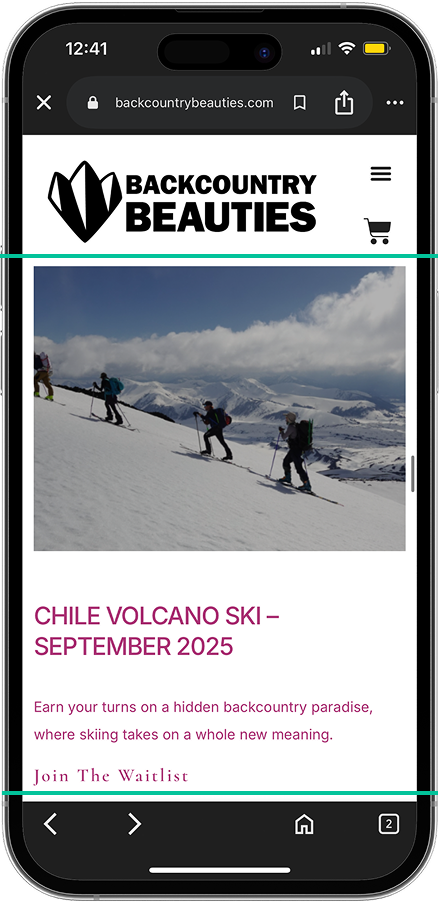
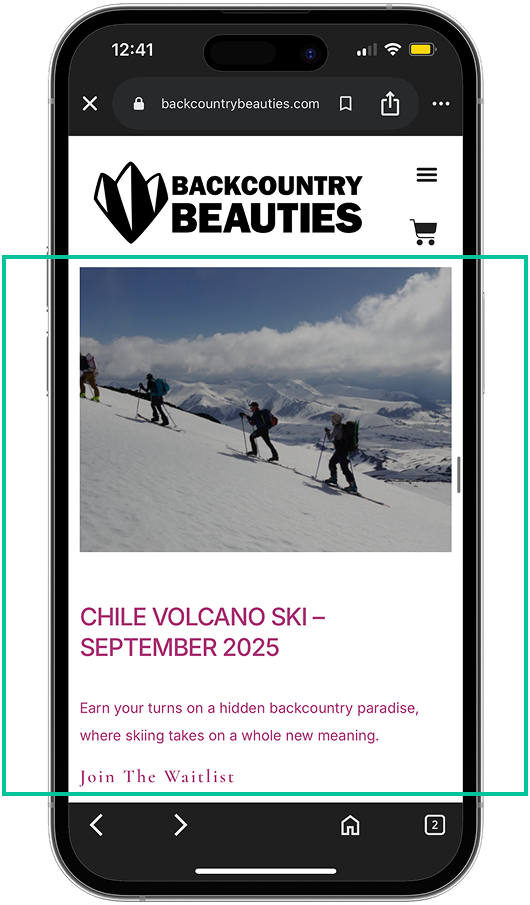
Restore complete green annotations and simplify terminology caption
Refs #17. Keep full original annotation rectangles while retaining transparent white exteriors; remove the requested public disclaimer sentence.

diff --git a/public/project/womens-wilderness/index.html b/public/project/womens-wilderness/index.html
@@ -15,7 +15,7 @@
 </div><video aria-label="Screen recording of the Women’s Wilderness homepage and its Transformative Outdoor Experiences hero video. No audio." autoplay="" height="860" id="ww-desk-video" loop="" muted="" playsinline="" poster="/assets/ww-desk-research-poster.jpg?v=97091bfdd975" preload="metadata" width="1494"><source src="/assets/ww-desk-research.webm?v=ce9756009521" type="video/webm"/><source src="/assets/ww-desk-research.mp4?v=224e63d82ca4" type="video/mp4"/>Your browser does not support embedded video. <a href="/assets/ww-desk-research.mp4?v=224e63d82ca4">Download the recording.</a></video></div></figure><h3 id="competitive-analysis">Competitive Analysis &amp; Critical User Journey</h3>
 <p>We compared Women’s Wilderness to Backcountry Beauties. Each of us put ourselves in a user's shoes to complete a task that we thought most of the users would need to go through.</p>
 <p><strong>I was responsible for searching for a specific program and event, and this is what I uncovered:</strong></p>
-<ol class="ww-comparison"><li><p>Women’s Wilderness had multiple adult program categories targeting adults. First-time users may need some time to fully understand the differences between each category. Backcountry Beauties listed all of their activities, making it easier for users to see what they have offered at once.</p><div class="ww-phone-recordings" data-walkthroughs="program-lists"><figure class="ww-phone-recording" data-recording="ww-program-list"><figcaption>Women’s Wilderness</figcaption><div class="ww-phone-frame"><video aria-label="Women’s Wilderness adult program navigation screen recording. No audio." autoplay="" height="1298" id="ww-program-list-video" loop="" muted="" playsinline="" poster="/assets/ww-program-list-poster.jpg?v=b65af1487cbb" preload="metadata" width="600"><source src="/assets/ww-program-list.webm?v=cb222b0959b2" type="video/webm"/><source src="/assets/ww-program-list.mp4?v=395fd7d4723b" type="video/mp4"/>Your browser does not support embedded video. <a href="/assets/ww-program-list.mp4?v=395fd7d4723b">Download the recording.</a></video></div></figure><figure class="ww-phone-recording" data-recording="bb-trips-list"><figcaption>Backcountry Beauties</figcaption><div class="ww-phone-frame"><video aria-label="Backcountry Beauties trips list screen recording. No audio." autoplay="" height="1298" id="bb-trips-list-video" loop="" muted="" playsinline="" poster="/assets/bb-trips-list-poster.jpg?v=39c1e78949ba" preload="metadata" width="600"><source src="/assets/bb-trips-list.webm?v=b3f99e89bf61" type="video/webm"/><source src="/assets/bb-trips-list.mp4?v=685a1ceb1884" type="video/mp4"/>Your browser does not support embedded video. <a href="/assets/bb-trips-list.mp4?v=685a1ceb1884">Download the recording.</a></video></div></figure></div></li><li><p>Both organizations display events that have already closed registration or have ended. However, Backcountry Beauties allows users to join a waitlist for these events.</p><div class="ww-phone-recordings ww-phone-single" data-walkthroughs="waitlist"><figure class="ww-phone-recording" data-recording="bb-waitlist"><figcaption>Backcountry Beauties</figcaption><div class="ww-phone-frame"><video aria-label="Backcountry Beauties trip waitlist flow screen recording. No audio." autoplay="" height="1298" id="bb-waitlist-video" loop="" muted="" playsinline="" poster="/assets/bb-waitlist-poster.jpg?v=116b1ddd7761" preload="metadata" width="600"><source src="/assets/bb-waitlist.webm?v=a7baa7f9bda2" type="video/webm"/><source src="/assets/bb-waitlist.mp4?v=3ff3dc1108f5" type="video/mp4"/>Your browser does not support embedded video. <a href="/assets/bb-waitlist.mp4?v=3ff3dc1108f5">Download the recording.</a></video></div></figure></div></li><li><p>Women’s Wilderness included the program details, such as price, date, and location, in the previews, which is something Backcountry Beauties does not provide.</p></li></ol><figure class="ww-evidence ww-program-previews"><div class="ww-evidence-grid ww-evidence-phones"><div class="ww-evidence-item"><span class="ww-evidence-label">Women’s Wilderness</span><a aria-label="Open full-size screenshot: Women’s Wilderness event preview showing date, location and price (opens in a new tab)" href="/assets/ww-program-preview-transparent.png?v=d2c579b9f26c" rel="noopener noreferrer" target="_blank"><img alt="Women’s Wilderness event preview showing date, location and price" height="903" loading="lazy" src="/assets/ww-program-preview-transparent.png?v=d2c579b9f26c" width="440"/></a></div><div class="ww-evidence-item"><span class="ww-evidence-label">Backcountry Beauties</span><a aria-label="Open full-size screenshot: Backcountry Beauties trip preview with a Join the Waitlist link (opens in a new tab)" href="/assets/ww-competitor-preview-transparent.png?v=920697b65e01" rel="noopener noreferrer" target="_blank"><img alt="Backcountry Beauties trip preview with a Join the Waitlist link" height="903" loading="lazy" src="/assets/ww-competitor-preview-transparent.png?v=920697b65e01" width="440"/></a></div></div></figure>
+<ol class="ww-comparison"><li><p>Women’s Wilderness had multiple adult program categories targeting adults. First-time users may need some time to fully understand the differences between each category. Backcountry Beauties listed all of their activities, making it easier for users to see what they have offered at once.</p><div class="ww-phone-recordings" data-walkthroughs="program-lists"><figure class="ww-phone-recording" data-recording="ww-program-list"><figcaption>Women’s Wilderness</figcaption><div class="ww-phone-frame"><video aria-label="Women’s Wilderness adult program navigation screen recording. No audio." autoplay="" height="1298" id="ww-program-list-video" loop="" muted="" playsinline="" poster="/assets/ww-program-list-poster.jpg?v=b65af1487cbb" preload="metadata" width="600"><source src="/assets/ww-program-list.webm?v=cb222b0959b2" type="video/webm"/><source src="/assets/ww-program-list.mp4?v=395fd7d4723b" type="video/mp4"/>Your browser does not support embedded video. <a href="/assets/ww-program-list.mp4?v=395fd7d4723b">Download the recording.</a></video></div></figure><figure class="ww-phone-recording" data-recording="bb-trips-list"><figcaption>Backcountry Beauties</figcaption><div class="ww-phone-frame"><video aria-label="Backcountry Beauties trips list screen recording. No audio." autoplay="" height="1298" id="bb-trips-list-video" loop="" muted="" playsinline="" poster="/assets/bb-trips-list-poster.jpg?v=39c1e78949ba" preload="metadata" width="600"><source src="/assets/bb-trips-list.webm?v=b3f99e89bf61" type="video/webm"/><source src="/assets/bb-trips-list.mp4?v=685a1ceb1884" type="video/mp4"/>Your browser does not support embedded video. <a href="/assets/bb-trips-list.mp4?v=685a1ceb1884">Download the recording.</a></video></div></figure></div></li><li><p>Both organizations display events that have already closed registration or have ended. However, Backcountry Beauties allows users to join a waitlist for these events.</p><div class="ww-phone-recordings ww-phone-single" data-walkthroughs="waitlist"><figure class="ww-phone-recording" data-recording="bb-waitlist"><figcaption>Backcountry Beauties</figcaption><div class="ww-phone-frame"><video aria-label="Backcountry Beauties trip waitlist flow screen recording. No audio." autoplay="" height="1298" id="bb-waitlist-video" loop="" muted="" playsinline="" poster="/assets/bb-waitlist-poster.jpg?v=116b1ddd7761" preload="metadata" width="600"><source src="/assets/bb-waitlist.webm?v=a7baa7f9bda2" type="video/webm"/><source src="/assets/bb-waitlist.mp4?v=3ff3dc1108f5" type="video/mp4"/>Your browser does not support embedded video. <a href="/assets/bb-waitlist.mp4?v=3ff3dc1108f5">Download the recording.</a></video></div></figure></div></li><li><p>Women’s Wilderness included the program details, such as price, date, and location, in the previews, which is something Backcountry Beauties does not provide.</p></li></ol><figure class="ww-evidence ww-program-previews"><div class="ww-evidence-grid ww-evidence-phones"><div class="ww-evidence-item"><span class="ww-evidence-label">Women’s Wilderness</span><a aria-label="Open full-size screenshot: Women’s Wilderness event preview showing date, location and price (opens in a new tab)" href="/assets/ww-program-preview-transparent.png?v=93a73c1fb369" rel="noopener noreferrer" target="_blank"><img alt="Women’s Wilderness event preview showing date, location and price" height="905" loading="lazy" src="/assets/ww-program-preview-transparent.png?v=93a73c1fb369" width="530"/></a></div><div class="ww-evidence-item"><span class="ww-evidence-label">Backcountry Beauties</span><a aria-label="Open full-size screenshot: Backcountry Beauties trip preview with a Join the Waitlist link (opens in a new tab)" href="/assets/ww-competitor-preview-transparent.png?v=fd1e69fe40e7" rel="noopener noreferrer" target="_blank"><img alt="Backcountry Beauties trip preview with a Join the Waitlist link" height="905" loading="lazy" src="/assets/ww-competitor-preview-transparent.png?v=fd1e69fe40e7" width="530"/></a></div></div></figure>
 <h3 id="user-interviews">User Interview and Analysis</h3>
 <p>To deeply understand how users can easily discover outdoor programs that they are interested in on the website, we conducted usability interviews with 6 potential participants, asking them to complete website tasks and answer interview questions around these 3 topics:</p>
 <p class="ww-topic-note"><em>(Select a topic below to scroll to the corresponding findings and recommendations.)</em></p><ol class="ww-topic-links"><li><a href="#finding-site-navigation">Site navigation and other information exploration</a></li><li><a href="#finding-program-discovery">Activities and programs discovery</a></li><li><a href="#finding-activity-registration">Activity Registration</a></li></ol>
@@ -24,7 +24,7 @@
 <h4 id="finding-site-navigation" tabindex="-1">1. Site navigation and other information exploration</h4>
 <p>A few participants were unsure whether “Adult Programs” and “Adult Courses” referred to the same offerings. The navigation used “Adult Programs” and “FAQ – Adult Courses,” while the homepage grouped offerings under “Courses.”</p>
 <p>We recommended using consistent terminology for the same offerings across navigation, headings, and FAQs.</p>
-<figure class="ww-evidence ww-naming-comparison"><div class="ww-naming-player"><video aria-describedby="ww-naming-caption" aria-label="Original wording on the left and proposed Courses terminology on the right, playing in sync" autoplay="" class="ww-naming-video" height="956" loop="" muted="" playsinline="" poster="/assets/ww-naming-comparison-poster.jpg?v=de1546a94a25" preload="metadata" width="1000"><source src="/assets/ww-naming-comparison.webm?v=55310794766a" type="video/webm"/><source src="/assets/ww-naming-comparison.mp4?v=7b576f8984d8" type="video/mp4"/>Your browser does not support embedded video. Use the full-size comparison link below.</video></div><figcaption id="ww-naming-caption">Illustrative terminology proposal: use “Courses” consistently across the homepage and navigation. Not implemented or usability-tested. <a href="/assets/ww-naming-comparison.mp4?v=7b576f8984d8" rel="noopener noreferrer" target="_blank">View full-size comparison</a></figcaption></figure><h4 id="finding-program-discovery" tabindex="-1">2. Activities and programs discovery</h4>
+<figure class="ww-evidence ww-naming-comparison"><div class="ww-naming-player"><video aria-describedby="ww-naming-caption" aria-label="Original wording on the left and proposed Courses terminology on the right, playing in sync" autoplay="" class="ww-naming-video" height="956" loop="" muted="" playsinline="" poster="/assets/ww-naming-comparison-poster.jpg?v=de1546a94a25" preload="metadata" width="1000"><source src="/assets/ww-naming-comparison.webm?v=55310794766a" type="video/webm"/><source src="/assets/ww-naming-comparison.mp4?v=7b576f8984d8" type="video/mp4"/>Your browser does not support embedded video. Use the full-size comparison link below.</video></div><figcaption id="ww-naming-caption">Proposed terminology: use “Courses” consistently across the homepage and navigation. <a href="/assets/ww-naming-comparison.mp4?v=7b576f8984d8" rel="noopener noreferrer" target="_blank">View full-size comparison</a></figcaption></figure><h4 id="finding-program-discovery" tabindex="-1">2. Activities and programs discovery</h4>
 <p>Some participants wanted to combine activity, age, and program-type filters to narrow the available options. We recommended supporting these combined criteria to shorten the program discovery time.</p>
 <figure class="ww-evidence"><div class="ww-evidence-item"><a aria-label="Open full-size screenshot: Recommendation concept showing Backpacking and Family filters selected together (opens in a new tab)" href="/assets/ww-filter-proposal.png?v=bc2baceeb012" rel="noopener noreferrer" target="_blank"><img alt="Recommendation concept showing Backpacking and Family filters selected together" height="994" loading="lazy" src="/assets/ww-filter-proposal.png?v=bc2baceeb012" width="605"/></a></div><figcaption>Proposed combined filtering, with “Backpacking” and “Family” selected together. This illustrates a recommendation, not a tested outcome.</figcaption></figure><h4 id="finding-activity-registration" tabindex="-1">3. Activity Registration</h4>
 <p>Some participants encountered events that were no longer accepting registrations.</p>

diff --git a/tools/prepare_transparent_previews.py b/tools/prepare_transparent_previews.py
@@ -1,61 +1,182 @@
-"""Optional reproducibility helper. Requires Pillow 13.0.0; run from any directory."""
-from PIL import Image
+"""Rebuild exterior-transparent annotated previews. Requires Pillow.
+
+Run from any directory; optional --preview-dir writes pale/dark visual checks.
+Original reference images are read-only. The complete green rectangles are kept.
+"""
+import argparse
+import hashlib
+import json
+import platform
 from pathlib import Path
-import hashlib,json
-root=Path(__file__).resolve().parents[1]; assets=root/'public/assets'
-names=['program','competitor']; originals={n:Image.open(assets/f'ww-{n}-preview.png').convert('RGB') for n in names}
-annotation_rows={'program':[(147,151),(684,688)],'competitor':[(255,259),(792,796)]}
-crop=(46,1,486,904)
-def sha(path):return hashlib.sha256(path.read_bytes()).hexdigest()
-def is_annotation(name,y):return any(a<=y<b for a,b in annotation_rows[name])
-def build(name):
- src=originals[name]; alt=originals[names[1-names.index(name)]]; out=src.convert('RGBA'); spans={}; changed_boundary=0
- # Construct silhouette without relying on the screen content, white highlights,
- # or turquoise annotation that crosses the source hardware.
- for y in range(src.height):
-  clean=alt if is_annotation(name,y) else src
-  core=[x for x in range(46,486) if min(clean.getpixel((x,y)))<220]
-  if core:spans[y]=(core[0],core[-1],clean)
- for y in range(src.height):
-  if y not in spans:
-   # The one faint antialiased row below the phone has no dark core.
-   # Keep only its neutral, nonwhite exterior using the last hardware row.
-   nearby=min(spans,key=lambda yy:abs(yy-y)); left,right,clean=spans[nearby]
-   for x in range(src.width):
-    rgb=src.getpixel((x,y)); shade=min(rgb)
-    if left<=x<=right and shade<255 and max(rgb)-min(rgb)<3:
-     fg=originals[name].getpixel((x,nearby)); f=round(sum(fg)/3)
-     alpha=round(255*(255-shade)/max(1,255-f))
-     out.putpixel((x,y),(*fg,max(0,min(255,alpha))))
-    else:out.putpixel((x,y),(0,0,0,0))
-   continue
-  left,right,clean=spans[y]
-  for x in range(src.width):
-   if left<=x<=right:continue
-   if x<46 or x>=486:
-    out.putpixel((x,y),(0,0,0,0));continue
-   edge=left if x<left else right; fg=clean.getpixel((edge,y)); rgb=clean.getpixel((x,y))
-   # All exterior pixels are neutral gray. Recover coverage by assuming the
-   # nearest opaque hardware-edge gray is the foreground; unmatte against white.
-   f=round(sum(fg)/3); shade=round(sum(rgb)/3)
-   alpha=max(0,min(255,round(255*(255-shade)/max(1,255-f))))
-   color=src.getpixel((x,y)) if is_annotation(name,y) else fg
-   out.putpixel((x,y),(*color,alpha))
-   if alpha:changed_boundary+=1
- result=out.crop(crop);path=assets/f'ww-{name}-preview-transparent.png';result.save(path,optimize=True)
- # Keep two light/dark backgrounds available for visual inspection, not shipped.
- for label,bg in [('lavender','#faf9fd'),('dark','#393445')]:
-  composite=Image.new('RGBA',result.size,bg);composite.alpha_composite(result);composite.convert('RGB').save(f'/tmp/ww-{name}-transparent-{label}.png')
- retained=unchanged=0; white_count=0
- for y,(left,right,clean) in spans.items():
-  for x in range(left,right+1):
-   retained+=1;unchanged+=out.getpixel((x,y))==(*src.getpixel((x,y)),255)
-   white_count+=src.getpixel((x,y))==(255,255,255)
- assert retained==unchanged
- assert result.mode=='RGBA' and all(result.getpixel(p)[3]==0 for p in [(0,0),(439,0),(0,902),(439,902)])
- extrema=result.getchannel('A').getextrema();assert extrema==(0,255)
- return {'source':f'public/assets/ww-{name}-preview.png','source_sha256':sha(assets/f'ww-{name}-preview.png'),'output':f'public/assets/ww-{name}-preview-transparent.png','output_sha256':sha(path),'source_dimensions':[530,905],'output_dimensions':list(result.size),'output_mode':result.mode,'crop_source_half_open':list(crop),'nontransparent_bbox_output_half_open':list(result.getbbox()),'nontransparent_bbox_source_half_open':[result.getbbox()[0]+46,result.getbbox()[1]+1,result.getbbox()[2]+46,result.getbbox()[3]+1],'annotation_source_y_half_open':annotation_rows[name],'checks':{'all_four_corner_alpha':0,'alpha_extrema':list(extrema),'enclosed_pixels_retained_exactly':retained,'enclosed_original_pure_white_pixels_retained_opaque':white_count,'partially_transparent_pixel_count':sum(0<a<255 for a in result.getchannel('A').getdata()),'antialiased_exterior_pixels':changed_boundary,'original_source_unchanged':True}}
-outputs=[build(n) for n in names]
-provenance={'purpose':'Transparent exterior-only derivatives of the two original annotated mobile preview screenshots. Original reference PNGs are intentionally untouched.','method':{'software':'Python 3.12 with Pillow 13.0.0','silhouette':'For each source y, first and last pixel with minimum RGB component <220 within hardware x range [46,486) define the fully opaque interval; every enclosed RGB pixel is copied unchanged. Exterior annotation rectangles are excluded from silhouette detection. No global white-key operation or replacement is applied to the website/browser UI.','annotation_crossings':'On each screenshot\u2019s four-pixel turquoise horizontal rules, derive the silhouette and edge coverage from the other original screenshot at the same y, where its hardware is unannotated. Preserve the current screenshot\u2019s original turquoise pixels inside the silhouette. Remove the rectangle\u2019s exterior segments along with the white background.','edge_antialias':'Outside each opaque interval, use the nearest core hardware edge RGB as foreground. Alpha = clamp(round(255 * (255 - mean(exterior RGB)) / (255 - mean(edge RGB))),0,255), with white matte 255. For neutral unannotated edges, save that edge RGB and recovered alpha; for turquoise crossing rows, retain the current source RGB under the same recovered alpha. Fully white exterior becomes alpha zero.','faint_bottom_edge':'Source y902 contains only faint neutral gray matte antialias. Recover alpha against the matching source x at nearest hardware-core row y901, restricted to its opaque interval. All other no-core rows become transparent.','crop':'Source half-open rectangle [46,1,486,904] = 440x903. Matches the existing extracted phone frame footprint, removes lateral white margins without resampling, and retains transparent padding at top/bottom.','interior_integrity':'No blur, resampling, screen erasure, screenshot replacement, UI recoloring, rim interpolation, or hardware repainting. All pixels from the row\u2019s first through last core edge retain the exact original RGB with alpha 255.'},'caveats':['The original screenshots were flattened on white, so true subpixel foreground colors/coverage cannot be uniquely recovered. Only exterior fringe pixels use the documented nearest-edge foreground estimate; enclosed hardware and all screenshot pixels remain exact.','The original turquoise annotations are intentionally retained inside the physical phone, including their existing crossings over hardware. Only the portions outside the silhouette disappear.','Derivative crop dimensions differ from original 530x905. Source and output coordinate geometry are documented per asset.'],'assets':outputs}
-(root/'content/sources/womens-wilderness-transparent-previews.json').write_text(json.dumps(provenance,indent=2)+'\n')
-print(json.dumps(outputs,indent=2))
+
+from PIL import Image, __version__ as pillow_version
+
+ROOT = Path(__file__).resolve().parents[1]
+ASSETS = ROOT / "public/assets"
+NAMES = ("program", "competitor")
+ANNOTATIONS = {
+    "program": (2, 147, 528, 688),
+    "competitor": (2, 255, 528, 796),
+}
+STROKE_WIDTH = 4
+ANNOTATION_RGB = (2, 195, 154)
+HARDWARE_X = (46, 486)
+
+
+def sha(path):
+    return hashlib.sha256(path.read_bytes()).hexdigest()
+
+
+def horizontal_annotation(name, y):
+    _, top, _, bottom = ANNOTATIONS[name]
+    return top <= y < top + STROKE_WIDTH or bottom - STROKE_WIDTH <= y < bottom
+
+
+def annotation_points(name):
+    left, top, right, bottom = ANNOTATIONS[name]
+    for y in range(top, bottom):
+        for x in range(left, right):
+            if (x < left + STROKE_WIDTH or x >= right - STROKE_WIDTH
+                    or y < top + STROKE_WIDTH or y >= bottom - STROKE_WIDTH):
+                yield x, y
+
+
+def coverage(rgb, foreground):
+    shade = round(sum(rgb) / 3)
+    edge = round(sum(foreground) / 3)
+    return max(0, min(255, round(255 * (255 - shade) / max(1, 255 - edge))))
+
+
+def build(name, originals, preview_dir):
+    source_path = ASSETS / f"ww-{name}-preview.png"
+    source_sha = sha(source_path)
+    src = originals[name]
+    alternate = originals[NAMES[1 - NAMES.index(name)]]
+    out = src.convert("RGBA")
+    spans = {}
+    for y in range(src.height):
+        # The other screenshot has clean hardware at these horizontal crossings.
+        clean = alternate if horizontal_annotation(name, y) else src
+        core = [x for x in range(*HARDWARE_X) if min(clean.getpixel((x, y))) < 220]
+        if core:
+            spans[y] = (core[0], core[-1], clean)
+
+    for y in range(src.height):
+        if y not in spans:
+            # Source y902 has faint gray antialias but no dark hardware core.
+            nearby = min(spans, key=lambda yy: abs(yy - y))
+            left, right, _ = spans[nearby]
+            for x in range(src.width):
+                rgb = src.getpixel((x, y))
+                if left <= x <= right and min(rgb) < 255 and max(rgb) - min(rgb) < 3:
+                    foreground = src.getpixel((x, nearby))
+                    out.putpixel((x, y), (*foreground, coverage(rgb, foreground)))
+                else:
+                    out.putpixel((x, y), (0, 0, 0, 0))
+            continue
+        left, right, clean = spans[y]
+        for x in range(src.width):
+            if left <= x <= right:
+                continue  # All enclosed screenshot/hardware RGB stays exact and opaque.
+            if not HARDWARE_X[0] <= x < HARDWARE_X[1]:
+                out.putpixel((x, y), (0, 0, 0, 0))
+                continue
+            edge = left if x < left else right
+            foreground = clean.getpixel((edge, y))
+            alpha = coverage(clean.getpixel((x, y)), foreground)
+            color = src.getpixel((x, y)) if horizontal_annotation(name, y) else foreground
+            out.putpixel((x, y), (*color, alpha))
+
+    # Union the ENTIRE original rectangle with the phone silhouette, including
+    # both vertical sides and horizontal portions outside the physical hardware.
+    points = list(annotation_points(name))
+    for point in points:
+        assert src.getpixel(point) == ANNOTATION_RGB, (name, point)
+        out.putpixel(point, (*src.getpixel(point), 255))
+    assert all(out.getpixel(p) == (*src.getpixel(p), 255) for p in points)
+
+    retained = white_count = 0
+    for y, (left, right, _) in spans.items():
+        for x in range(left, right + 1):
+            rgb = src.getpixel((x, y))
+            assert out.getpixel((x, y)) == (*rgb, 255)
+            retained += 1
+            white_count += rgb == (255, 255, 255)
+    corners = ((0, 0), (src.width - 1, 0), (0, src.height - 1),
+               (src.width - 1, src.height - 1))
+    assert all(out.getpixel(p)[3] == 0 for p in corners)
+    assert out.mode == "RGBA" and out.size == src.size
+    assert out.getchannel("A").getextrema() == (0, 255)
+    assert sha(source_path) == source_sha
+
+    output_path = ASSETS / f"ww-{name}-preview-transparent.png"
+    out.save(output_path, optimize=True)
+    if preview_dir:
+        for label, background in (("lavender", "#faf9fd"), ("dark", "#393445")):
+            composite = Image.new("RGBA", out.size, background)
+            composite.alpha_composite(out)
+            composite.convert("RGB").save(preview_dir / f"ww-{name}-transparent-{label}.png")
+    alpha_values = out.getchannel("A").histogram()
+    return {
+        "source": str(source_path.relative_to(ROOT)),
+        "source_sha256": source_sha,
+        "output": str(output_path.relative_to(ROOT)),
+        "output_sha256": sha(output_path),
+        "source_dimensions": list(src.size),
+        "output_dimensions": list(out.size),
+        "output_mode": out.mode,
+        "crop_source_half_open": [0, 0, src.width, src.height],
+        "nontransparent_bbox_output_half_open": list(out.getbbox()),
+        "nontransparent_bbox_source_half_open": list(out.getbbox()),
+        "annotation_source_bbox_half_open": list(ANNOTATIONS[name]),
+        "annotation_stroke_width_pixels": STROKE_WIDTH,
+        "annotation_rgb": list(ANNOTATION_RGB),
+        "checks": {
+            "all_four_corner_alpha": 0,
+            "alpha_extrema": [0, 255],
+            "enclosed_pixels_retained_exactly": retained,
+            "enclosed_original_pure_white_pixels_retained_opaque": white_count,
+            "complete_original_annotation_pixels_retained_exactly": len(points),
+            "all_annotation_pixels_opaque": True,
+            "partially_transparent_pixel_count": sum(alpha_values[1:255]),
+            "original_source_unchanged": True,
+        },
+    }
+
+
+def main():
+    parser = argparse.ArgumentParser(description=__doc__)
+    parser.add_argument("--preview-dir", type=Path, help="Optional pale/dark composite directory")
+    args = parser.parse_args()
+    if args.preview_dir:
+        args.preview_dir.mkdir(parents=True, exist_ok=True)
+    originals = {name: Image.open(ASSETS / f"ww-{name}-preview.png").convert("RGB")
+                 for name in NAMES}
+    outputs = [build(name, originals, args.preview_dir) for name in NAMES]
+    provenance = {
+        "purpose": "Remove exterior white around annotated mobile screenshots while preserving the physical phones AND complete original green annotation rectangles. Original reference PNGs are untouched.",
+        "reproducibility_script": "tools/prepare_transparent_previews.py",
+        "method": {
+            "software": f"Python {platform.python_version()} with Pillow {pillow_version}",
+            "silhouette": "For each source y, first and last pixel with minimum RGB component <220 within hardware x range [46,486) define the fully opaque phone interval. Every enclosed RGB pixel stays unchanged and opaque. No global white key is applied to the website/browser UI.",
+            "annotation_crossings": "Use the alternate original screenshot for unannotated hardware silhouette samples on each four-pixel horizontal green rule. Its vertical annotation sides are outside the hardware detection range.",
+            "annotation_union": "After preparing the phone alpha silhouette, restore the complete original 4px rectangle perimeter as exact original RGB (2,195,154), alpha 255. This includes both vertical sides and all horizontal portions outside the phone. Explicit per-asset bounding rectangles select only the original annotation strokes, not similarly colored screenshot content.",
+            "edge_antialias": "Outside the opaque phone interval, nearest core hardware edge RGB estimates foreground. Alpha = clamp(round(255 * (255 - mean(exterior RGB)) / max(1,255 - mean(edge RGB))),0,255). Fully white exterior becomes alpha zero. Original annotation strokes then override phone-edge coverage and remain opaque.",
+            "faint_bottom_edge": "Source y902 contains faint neutral gray antialias. Recover its coverage against the matching source x in nearest core row y901, restricted to that row's opaque interval. Other no-core rows become transparent.",
+            "canvas": "Keep the complete original 530x905 canvas, half-open source rectangle [0,0,530,905], with no cropping or resampling. This retains the full annotations at x2 through x527.",
+            "interior_integrity": "No blur, resampling, screen erasure, screenshot replacement, UI recoloring, rim interpolation, or hardware repainting. All enclosed screenshot/hardware RGB pixels and every original green annotation pixel are exact and opaque.",
+        },
+        "caveats": [
+            "The flattened white-matte originals do not uniquely determine original subpixel foreground colors/coverage. Only exterior phone fringe pixels use the documented nearest-edge estimate; enclosed hardware, screenshot UI, and complete annotations remain exact.",
+            "The green rectangles intentionally extend outside the hardware. Their interiors outside the hardware remain transparent, not white-filled.",
+            "The full original 530x905 canvas replaces the earlier cropped 440x903 derivatives; consumer image dimensions/aspect ratio should use the current geometry.",
+        ],
+        "assets": outputs,
+    }
+    target = ROOT / "content/sources/womens-wilderness-transparent-previews.json"
+    target.write_text(json.dumps(provenance, indent=2) + "\n")
+    print(json.dumps(outputs, indent=2))
+
+
+if __name__ == "__main__":
+    main()

diff --git a/test_baseline.py b/test_baseline.py
@@ -288,10 +288,11 @@ class BaselineTests(unittest.TestCase):
             self.assertEqual(digest, entry["output_sha256"])
             self.assertEqual(image["src"], "/assets/" + output.name + "?v=" + digest[:12])
             self.assertEqual(image.parent["href"], image["src"])
-            self.assertEqual((image["width"], image["height"]), ("440", "903"))
+            self.assertEqual((image["width"], image["height"]), ("530", "905"))
             self.assertEqual(output.read_bytes()[25], 6)  # PNG RGBA, not a white matte.
             self.assertEqual(entry["checks"]["all_four_corner_alpha"], 0)
             self.assertGreater(entry["checks"]["enclosed_original_pure_white_pixels_retained_opaque"], 10000)
+            self.assertEqual(entry["checks"]["complete_original_annotation_pixels_retained_exactly"], 8472)
 
     def test_womens_wilderness_naming_comparison(self):
         soup = BeautifulSoup((ROOT / "project/womens-wilderness/index.html").read_text(), "html.parser")
@@ -308,7 +309,8 @@ class BaselineTests(unittest.TestCase):
         self.assertEqual(video["aria-describedby"], figure.figcaption["id"])
         self.assertIn("Original", video["aria-label"])
         self.assertIn("proposed", video["aria-label"])
-        self.assertIn("Not implemented or usability-tested.", figure.figcaption.get_text())
+        self.assertNotIn("Not implemented or usability-tested.", soup.get_text())
+        self.assertIn("Proposed terminology", figure.figcaption.get_text())
         metadata = json.loads((ROOT.parent / "content/sources/womens-wilderness-naming-comparison.json").read_text())
         self.assertEqual(metadata["labels"], ["Original", "Proposed"])
         self.assertEqual(metadata["timing"]["frames"], 868)

diff --git a/README.md b/README.md
@@ -79,13 +79,14 @@ integrity hashes.
   Both images open full-size.
 - The two competitive program-preview screenshots use exterior-transparent
   phone derivatives. White website UI inside the phones is retained; original
-  reference screenshots remain unchanged. Mask geometry and integrity checks
+  green annotation rectangles are retained in full, including their sides
+  outside the hardware. Reference screenshots remain unchanged. Mask geometry and integrity checks
   are in `content/sources/womens-wilderness-transparent-previews.json`.
 - The first finding uses the owner's additional homepage/navigation recording
   as an “Original” / “Proposed” terminology comparison. Both framed phones and
   labels are baked into one video, so playback, seeking, buffering, and looping
   cannot drift. Both views use black browser chrome; proposed “Courses” edits
-  are explicitly an unimplemented, untested illustration. WebM is offered
+  are labeled as proposed. WebM is offered
   before MP4, with a full-size comparison link for closer inspection.
 
 Intentional preview safeguards:

diff --git a/IMAGE_CREDITS.md b/IMAGE_CREDITS.md
@@ -114,11 +114,12 @@ retained status/home strips are documented in
 ### Transparent program-preview phones
 
 - `ww-program-preview-transparent.png` and
-  `ww-competitor-preview-transparent.png` are 440×903 RGBA derivatives of the
+  `ww-competitor-preview-transparent.png` are 530×905 RGBA derivatives of the
   corresponding original preview screenshots.
-- Only exterior white matte and exterior annotation segments were removed.
-  Enclosed website/browser UI, including white areas and existing annotations,
-  is preserved pixel-for-pixel. Original reference files are unchanged.
+- Only the exterior white matte is removed. Complete green rectangles,
+  including all four sides outside the hardware, are retained on the full
+  original canvas. Enclosed website/browser UI and all annotation strokes
+  remain pixel-for-pixel unchanged. Original reference files are unchanged.
 - Source/output hashes, crop geometry, edge-alpha method, white-pixel integrity
   checks, and limitations are archived in
   `content/sources/womens-wilderness-transparent-previews.json`.
